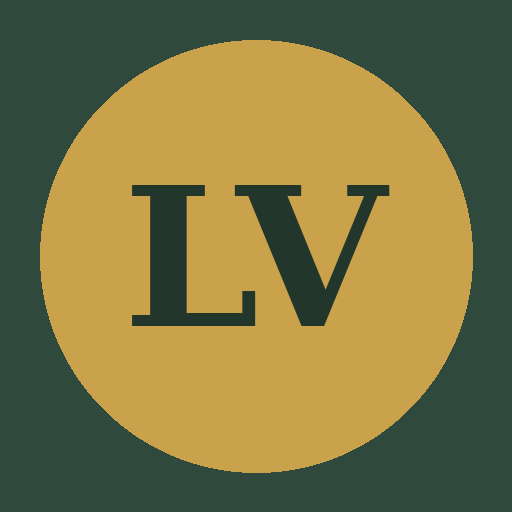
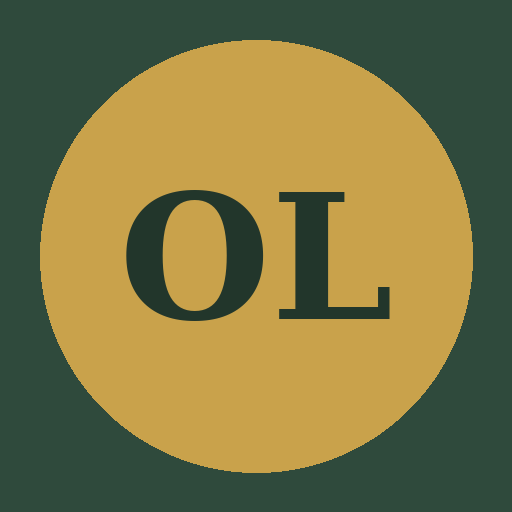
Add files via upload

Changed region(s): [[0.2188, 0.3438, 0.7812, 0.6562]]

diff --git a/index.html b/index.html
@@ -3,14 +3,14 @@
 <head>
 <meta charset="UTF-8">
 <meta name="viewport" content="width=device-width, initial-scale=1.0">
-<title>La Vuelta - Prueba Multijugador</title>
+<title>Ocaland - Prueba Multijugador</title>
 <link rel="manifest" href="manifest.json">
 <meta name="theme-color" content="#2F4A3C">
 <link rel="icon" href="icon-192.png">
 <link rel="apple-touch-icon" href="icon-192.png">
 <meta name="apple-mobile-web-app-capable" content="yes">
 <meta name="apple-mobile-web-app-status-bar-style" content="black-translucent">
-<meta name="apple-mobile-web-app-title" content="La Vuelta">
+<meta name="apple-mobile-web-app-title" content="Ocaland">
 <script src="https://cdn.jsdelivr.net/npm/@supabase/supabase-js@2/dist/umd/supabase.js"></script>
 <style>
   :root{
@@ -106,7 +106,7 @@
 </head>
 <body>
 
-<h1>La Vuelta</h1>
+<h1>Ocaland</h1>
 <div class="subtitle">Prueba de sincronización multijugador</div>
 
 <!-- Pantalla 1: nombre -->
@@ -209,6 +209,29 @@
   const TOKEN_COLORS = ['#2F4A3C','#8B3A3A','#4B6FA8','#B5862B','#6B4E8E','#3F8F6B'];
 
   let myNombre = '';
+
+  // ---------- Campaña de 10 etapas (solo modo solo vs bot) ----------
+  let esModoSolo = false;
+  let campanaInicioTs = null;
+  let etapaInicioTs = null;
+  let historialEtapas = [];
+  let etapaConfig = null;
+
+  function generarConfigEtapa(etapa){
+    const d = (etapa - 1) / 9; // 0 (etapa1) a 1 (etapa10)
+    return {
+      botAciertoOca:      0.45 + d*0.35,   // 0.45 -> 0.80
+      botAciertoCarcel:   0.45 + d*0.35,
+      botAciertoCalavera: 0.30 + d*0.35,   // 0.30 -> 0.65
+      ocaCarcelUsanBancoDificil: etapa >= 7,   // desde etapa 7, hasta oca/carcel son trivia dificil
+      tiempoLimiteTrivia: Math.max(8, 15 - Math.floor(d*7)), // 15s -> 8s
+    };
+  }
+
+  function aplicarConfigEtapa(etapa){
+    etapaConfig = generarConfigEtapa(etapa);
+  }
+
   let myPlayerId = null;
   let myPartidaId = null;
   let myOrdenTurno = null;
@@ -421,7 +444,7 @@
         await refreshPlayersList();
         subscribeRealtime();
         enterGameScreen();
-        if(partida.estado === 'finalizada') await mostrarFinDePartida();
+        if(partida.estado === 'finalizada' && !esModoSolo) await mostrarFinDePartida();
       });
       lista.appendChild(btn);
     });
@@ -447,13 +470,19 @@
       const code = genCode();
       const { data, error } = await client
         .from('partidas')
-        .insert({ codigo: code, estado: 'esperando', max_jugadores: 2 })
+        .insert({ codigo: code, estado: 'esperando', max_jugadores: 2, etapa_actual: 1 })
         .select()
         .single();
       if(!error) partida = data;
       else lastError = error;
     }
     if(!partida){ alert('No se pudo crear la partida.\n\nDetalle: ' + (lastError ? lastError.message : '')); return; }
+
+    esModoSolo = true;
+    campanaInicioTs = Date.now();
+    etapaInicioTs = campanaInicioTs;
+    historialEtapas = [];
+    aplicarConfigEtapa(1);
 
     myPartidaId = partida.id;
     partidaCache = partida;
@@ -469,6 +498,7 @@
     await refreshPlayersList();
     subscribeRealtime();
     enterGameScreen();
+    document.getElementById('marcador-tanda').textContent = 'Campaña: etapa 1 de 10';
   });
 
   // ---------- Pantalla 3: sala de espera ----------
@@ -586,7 +616,7 @@
           if(enPantallaJuego){
             updateTurnUI();
           }
-          if(partidaCache.estado === 'finalizada'){
+          if(partidaCache.estado === 'finalizada' && !esModoSolo){
             await mostrarFinDePartida();
           }
         })
@@ -602,6 +632,91 @@
     showScreen('screen-waiting');
     renderPlayersList();
     iniciarPollingWaiting();
+  }
+
+  async function manejarVictoria(jugadorGanadorId){
+    if(esModoSolo){
+      if(jugadorGanadorId === myPlayerId){
+        await avanzarEtapaCampana();
+      } else {
+        await reintentarEtapaCampana();
+      }
+      return;
+    }
+    await registrarVictoriaYFinalizar(jugadorGanadorId);
+  }
+
+  function formatearMs(ms){
+    const totalSeg = Math.round(ms/1000);
+    const min = Math.floor(totalSeg/60);
+    const seg = totalSeg % 60;
+    return min > 0 ? `${min}m ${seg}s` : `${seg}s`;
+  }
+
+  function guardarHistorialCampana(msTotal){
+    try {
+      const historial = JSON.parse(localStorage.getItem('ocaland_historial_campanas') || '[]');
+      historial.unshift({ fecha: new Date().toISOString(), msTotal, nombre: myNombre });
+      localStorage.setItem('ocaland_historial_campanas', JSON.stringify(historial.slice(0, 20)));
+    } catch(e){ /* localStorage no disponible */ }
+  }
+
+  function leerHistorialCampanas(){
+    try { return JSON.parse(localStorage.getItem('ocaland_historial_campanas') || '[]'); }
+    catch(e){ return []; }
+  }
+
+  async function avanzarEtapaCampana(){
+    const ahora = Date.now();
+    const msEtapa = ahora - (etapaInicioTs || ahora);
+    const etapaActual = partidaCache.etapa_actual || 1;
+    historialEtapas.push({ etapa: etapaActual, ms: msEtapa });
+    document.getElementById('dice').classList.add('disabled');
+
+    if(etapaActual >= 10){
+      const msTotal = ahora - (campanaInicioTs || ahora);
+      await client.from('partidas').update({ estado: 'finalizada' }).eq('id', myPartidaId);
+      partidaCache = { ...partidaCache, estado: 'finalizada' };
+      guardarHistorialCampana(msTotal);
+      if(pollingGame){ clearInterval(pollingGame); pollingGame = null; }
+      mostrarFinCampana(msTotal);
+      return;
+    }
+
+    const nuevaEtapa = etapaActual + 1;
+    etapaInicioTs = Date.now();
+    aplicarConfigEtapa(nuevaEtapa);
+    await client.from('jugadores_partida').update({ posicion: 0, salta_turno: false }).eq('partida_id', myPartidaId);
+    await client.from('partidas').update({ etapa_actual: nuevaEtapa, turno_actual: 0, estado_turno: null }).eq('id', myPartidaId);
+    partidaCache = { ...partidaCache, etapa_actual: nuevaEtapa, turno_actual: 0, estado_turno: null };
+    await refreshPlayersList();
+    document.getElementById('game-msg').textContent = `🎉 ¡Superaste la etapa ${etapaActual}! (${formatearMs(msEtapa)}) Arranca la etapa ${nuevaEtapa} de 10.`;
+    document.getElementById('marcador-tanda').textContent = `Campaña: etapa ${nuevaEtapa} de 10`;
+    renderBoard();
+    updateTurnUI();
+  }
+
+  async function reintentarEtapaCampana(){
+    const etapaActual = partidaCache.etapa_actual || 1;
+    etapaInicioTs = Date.now();
+    await client.from('jugadores_partida').update({ posicion: 0, salta_turno: false }).eq('partida_id', myPartidaId);
+    await client.from('partidas').update({ turno_actual: 0, estado_turno: null }).eq('id', myPartidaId);
+    partidaCache = { ...partidaCache, turno_actual: 0, estado_turno: null };
+    await refreshPlayersList();
+    document.getElementById('game-msg').textContent = `😕 Te ganó el bot en la etapa ${etapaActual}. ¡Reintentá!`;
+    renderBoard();
+    updateTurnUI();
+  }
+
+  function mostrarFinCampana(msTotal){
+    const historial = leerHistorialCampanas();
+    const listaHtml = historial.slice(0,5).map((h,i) =>
+      `${i+1}. ${h.nombre} — ${formatearMs(h.msTotal)} (${new Date(h.fecha).toLocaleDateString()})`
+    ).join('<br>');
+    document.getElementById('game-msg').innerHTML = `🏆🎉 ¡COMPLETASTE LAS 10 ETAPAS! Tiempo total: ${formatearMs(msTotal)}<br><br><b>Historial de campañas:</b><br>${listaHtml}`;
+    document.getElementById('btn-play-again').classList.remove('hidden');
+    document.getElementById('btn-nueva-tanda').classList.add('hidden');
+    document.getElementById('btn-revancha').classList.add('hidden');
   }
 
   async function registrarVictoriaYFinalizar(jugadorGanadorId){
@@ -977,7 +1092,10 @@
       await client.from('jugadores_partida').update({ posicion: rawNewPos }).eq('id', jugadorId);
       await refreshPlayersList();
       if(esBot){
-        const acierto = Math.random() < (tipo==='calavera' ? 0.4 : 0.55);
+        const probAcierto = (esModoSolo && etapaConfig)
+          ? (tipo==='calavera' ? etapaConfig.botAciertoCalavera : tipo==='carcel' ? etapaConfig.botAciertoCarcel : etapaConfig.botAciertoOca)
+          : (tipo==='calavera' ? 0.4 : 0.55);
+        const acierto = Math.random() < probAcierto;
         await aplicarResultadoTrivia(jugadorId, tipo, rawNewPos, acierto, true, false);
       } else {
         await client.from('partidas').update({ estado_turno: 'resolviendo_trivia' }).eq('id', myPartidaId);
@@ -989,7 +1107,7 @@
 
     await client.from('jugadores_partida').update({ posicion: rawNewPos }).eq('id', jugadorId);
     if(rawNewPos >= META){
-      await registrarVictoriaYFinalizar(jugadorId);
+      await manejarVictoria(jugadorId);
       return;
     }
     await terminarTurno(false);
@@ -1005,7 +1123,7 @@
       : mensajeTrivia(tipo, acierto, quien);
 
     if(outcome.pos >= TOTAL_CELLS-1){
-      await registrarVictoriaYFinalizar(jugadorId);
+      await manejarVictoria(jugadorId);
       return;
     }
     if((tipo === 'carcel' && !acierto) || forzarSkip){
@@ -1017,7 +1135,8 @@
   const TIEMPO_LIMITE_TRIVIA = 15; // segundos
 
   function mostrarTriviaLocal(tipo, posActual, jugadorId, edadBracket){
-    const bankSet = tipo === 'calavera' ? triviaBankDificil : triviaBank;
+    const usaDificil = tipo === 'calavera' || (esModoSolo && etapaConfig && etapaConfig.ocaCarcelUsanBancoDificil);
+    const bankSet = usaDificil ? triviaBankDificil : triviaBank;
     const bank = bankSet[edadBracket] || bankSet.adultos;
     const pregunta = bank[Math.floor(Math.random()*bank.length)];
     const titulos = { oca:'🪿 Oca — trivia', carcel:'⛓ Cárcel — trivia', calavera:'💀 Calavera — trivia DIFÍCIL' };
@@ -1026,7 +1145,7 @@
     const opts = document.getElementById('trivia-options');
     opts.innerHTML = '';
     let resuelto = false;
-    let segundosRestantes = TIEMPO_LIMITE_TRIVIA;
+    let segundosRestantes = (esModoSolo && etapaConfig) ? etapaConfig.tiempoLimiteTrivia : TIEMPO_LIMITE_TRIVIA;
     const timerEl = document.getElementById('trivia-timer');
     timerEl.textContent = `⏱ ${segundosRestantes}s`;
     const intervalId = setInterval(() => {
@@ -1117,7 +1236,7 @@
           return;
         }
         updateTurnUI();
-        if(partida.estado === 'finalizada'){
+        if(partida.estado === 'finalizada' && !esModoSolo){
           clearInterval(pollingGame);
           pollingGame = null;
           await mostrarFinDePartida();
@@ -1172,7 +1291,7 @@
       iniciarPollingWaiting();
     } else {
       enterGameScreen();
-      if(partida.estado === 'finalizada') await mostrarFinDePartida();
+      if(partida.estado === 'finalizada' && !esModoSolo) await mostrarFinDePartida();
     }
   }
 
